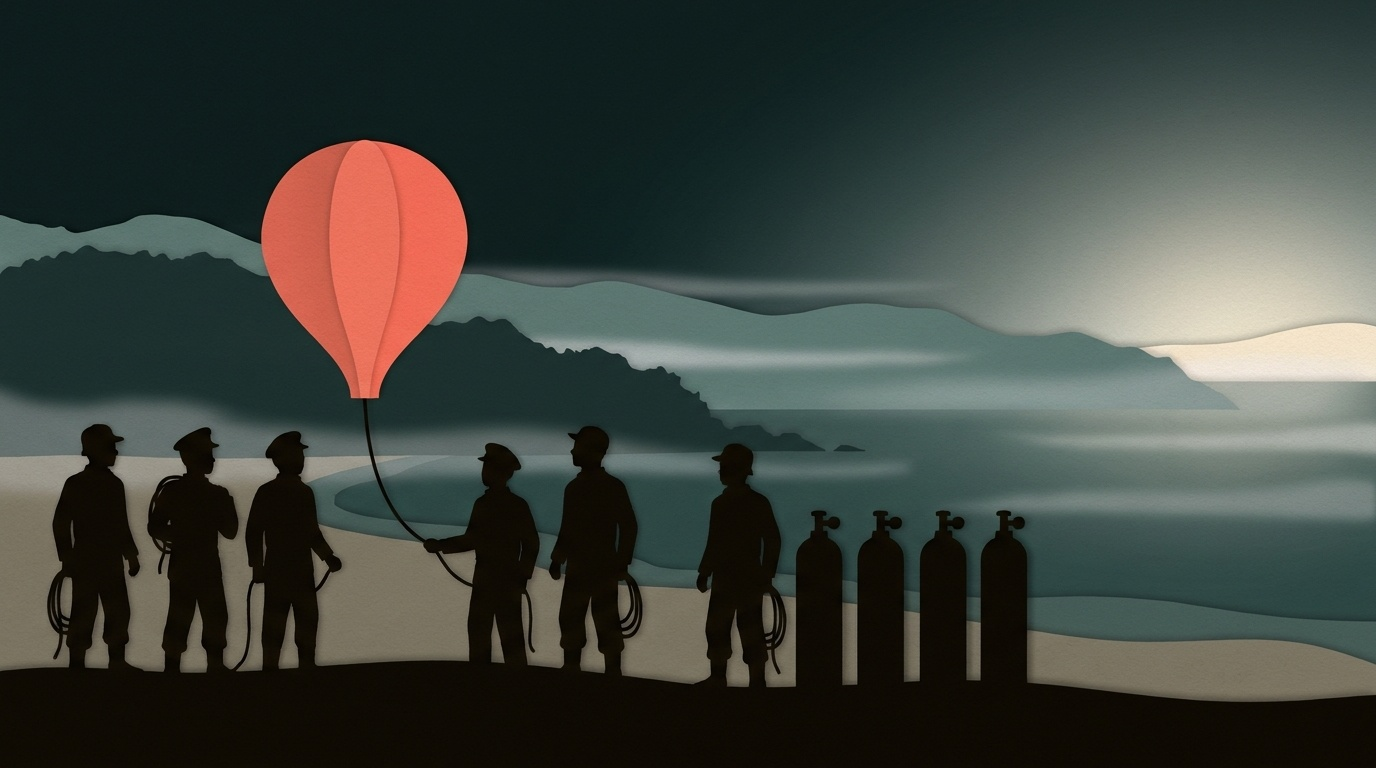
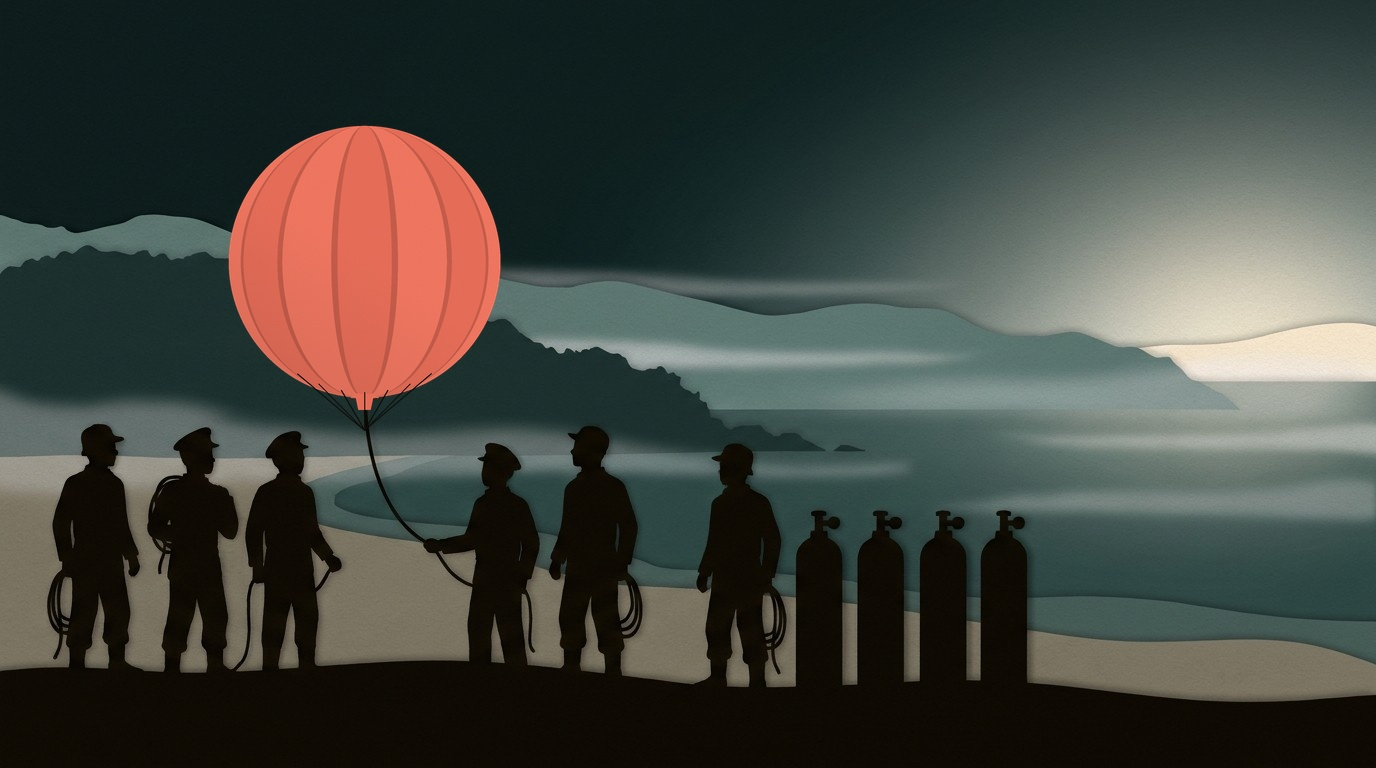
Balloon War v2: all 16 silhouette scenes done; BW01/BW02 teardrop balloons replaced with a drawn round paper balloon (tools/round_balloon.py), Flow originals kept in rejects; final contact sheet
Claude-Session: https://claude.ai/code/session_017aRbDqpWEUUivKMiqAJv9q

Changed region(s): [[0.1562, 0.1562, 0.375, 0.5625]]

diff --git a/projects/Balloon_War/tools/round_balloon.py b/projects/Balloon_War/tools/round_balloon.py
@@ -1,0 +1,70 @@
+"""Draw the Fu-Go paper balloon as a cut-paper shape: a round sphere of paper panels (gores) with seams, a small nozzle, and
+optionally its rig (shroud lines to the black ring and its little sandbags). Supersampled for clean edges. Returns RGBA.
+
+Used to replace AI balloons that came out as teardrops (hot-air shape); also usable as its own animated layer.
+
+  from round_balloon import balloon
+  im = balloon(diameter=270, rig='ring' | 'tether' | None)
+"""
+import math
+import numpy as np
+from PIL import Image, ImageDraw
+
+LIGHT, MID, DARK = (238, 118, 96), (229, 109, 88), (196, 92, 74)  # sampled from the Flow paper balloons
+INK = (13, 12, 9)
+
+
+def balloon(diameter, rig='ring', ss=4, seed=1):
+    R = diameter / 2
+    rig_h = {'ring': diameter * 1.35, 'tether': diameter * 0.12, None: 0}[rig]
+    W = int(diameter * 1.1 * ss); H = int((diameter * 1.05 + rig_h) * ss)
+    cx, cy, r = W / 2, R * 1.02 * ss, R * ss
+    yy, xx = np.mgrid[0:H, 0:W].astype(float)
+    dx, dy = (xx - cx) / r, (yy - cy) / r
+    inside = dx * dx + dy * dy <= 1
+    # longitude of each point on the sphere: vertical paper panels
+    rr = np.sqrt(np.clip(1 - dy * dy, 1e-6, 1))
+    lon = np.arcsin(np.clip(dx / rr, -1, 1))
+    n = 7  # visible panels
+    band = (lon + math.pi / 2) / (math.pi / n)
+    frac = band - np.floor(band)
+    idx = np.floor(band).astype(int)
+    rgb = np.zeros((H, W, 3))
+    rgb[:] = MID
+    rgb[(idx % 2) == 0] = LIGHT
+    seam = (np.minimum(frac, 1 - frac) < 0.035 / max(rr.mean(), 0.3)) & inside
+    rgb[seam] = DARK
+    # a faint shade toward the bottom-left edge, like curved paper
+    shade = np.clip((dx * -0.4 + dy * 0.6), 0, 1)[..., None] * 0.10
+    rgb = rgb * (1 - shade)
+    # paper grain
+    rng = np.random.default_rng(seed)
+    rgb += rng.normal(0, 2.2, rgb.shape)
+    a = inside.astype(float)
+    im = Image.fromarray(np.dstack([np.clip(rgb, 0, 255), a * 255]).astype(np.uint8), 'RGBA')
+    d = ImageDraw.Draw(im)
+    # nozzle (appendix) at the bottom
+    ny = cy + r
+    d.polygon([(cx - r * 0.07, ny - r * 0.03), (cx + r * 0.07, ny - r * 0.03), (cx + r * 0.045, ny + r * 0.09), (cx - r * 0.045, ny + r * 0.09)], fill=MID + (255,))
+    lw = max(1, int(diameter * ss / 260))
+    if rig == 'ring':
+        ry = ny + rig_h * ss * 0.55
+        rw = r * 0.22
+        for k in range(-3, 4):
+            ang = k * 0.2
+            sx, sy = cx + math.sin(ang) * r * 0.95, cy + math.cos(ang) * r * 0.95
+            d.line([(sx, sy), (cx + k * rw / 3.5, ry)], fill=INK + (255,), width=lw)
+        d.ellipse([cx - rw, ry - rw * 0.22, cx + rw, ry + rw * 0.22], outline=INK + (255,), width=lw * 3)
+        for k in range(-3, 4):  # sandbags hanging round the ring
+            bx = cx + k * rw / 3.2; by = ry + rw * 0.25
+            d.line([(bx, ry), (bx, by)], fill=INK + (255,), width=lw)
+            d.ellipse([bx - rw * 0.11, by, bx + rw * 0.11, by + rw * 0.34], fill=INK + (255,))
+        d.line([(cx, ry), (cx, ry + rig_h * ss * 0.38)], fill=INK + (255,), width=lw)  # the release line
+        d.ellipse([cx - rw * 0.16, ry + rig_h * ss * 0.36, cx + rw * 0.16, ry + rig_h * ss * 0.45], fill=INK + (255,))
+    elif rig == 'tether':
+        ty = ny + rig_h * ss
+        for k in range(-3, 4):
+            ang = k * 0.18
+            sx, sy = cx + math.sin(ang) * r * 0.96, cy + math.cos(ang) * r * 0.96
+            d.line([(sx, sy), (cx, ty)], fill=INK + (255,), width=lw)
+    return im.resize((W // ss, H // ss), Image.LANCZOS), (cx / ss, cy / ss)

diff --git a/projects/Balloon_War/script/FLOW_PROMPT.md b/projects/Balloon_War/script/FLOW_PROMPT.md
@@ -169,3 +169,12 @@ Redo:
 - **Still to do: BW01, BW02.** The round-2 beach (`rejects/BW02_release_r2_modern_kids.jpg`) has the right round balloon and ring, but
   the boys look about 8, in T-shirts and shorts, no caps: wrong age and period.
 - Contact: `review/contact/flow_scenes_v2.jpg`.
+
+## Round 3 (Nov 3, 2026): all 16 done
+- **BW01, BW02:** Flow got the boys right (teenagers, caps, work clothes, coiled ropes) but drew teardrop balloons again. Fixed here:
+  `tools/round_balloon.py` draws the round paper balloon (panels and seams in the sampled coral, nozzle, shroud lines; `rig='ring'`
+  adds the ring and sandbags). BW01: a round balloon over the teardrop, its lines meeting the boy's rope. BW02: the teardrop and its
+  rig inpainted out (OpenCV Telea), then the round balloon with its ring. Flow's versions: `rejects/*_r3_teardrop.jpg`.
+- Lesson for next time: Flow (this model) keeps turning "balloon" into a hot-air teardrop even when told not to; draw the balloon
+  as its own layer instead. That's better for animation anyway (it can bob and rise on its own plane).
+- Contact sheet of the final set: `review/contact/flow_scenes_final.jpg`. Every image is 1376×768.
